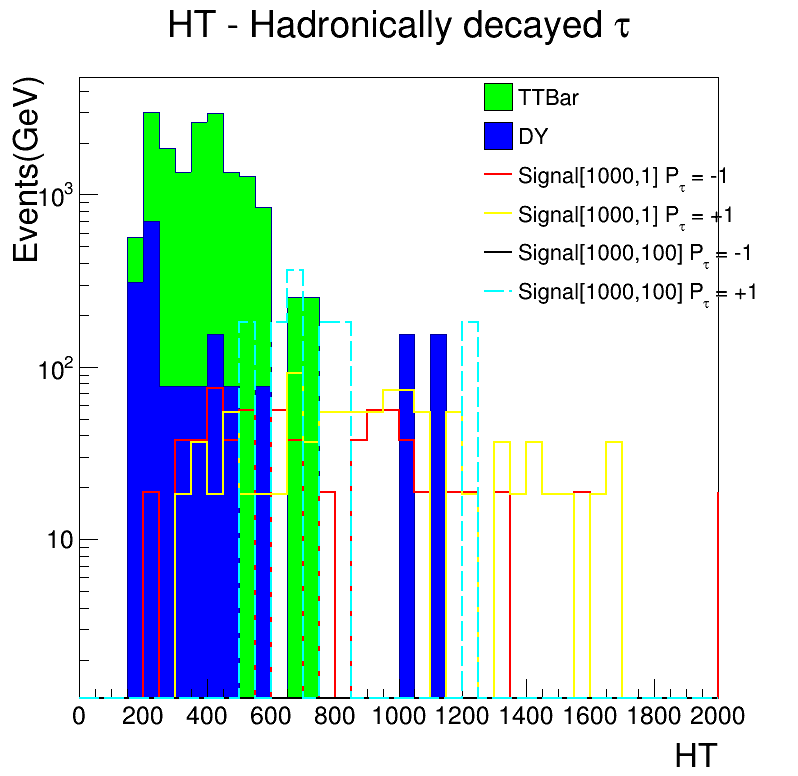
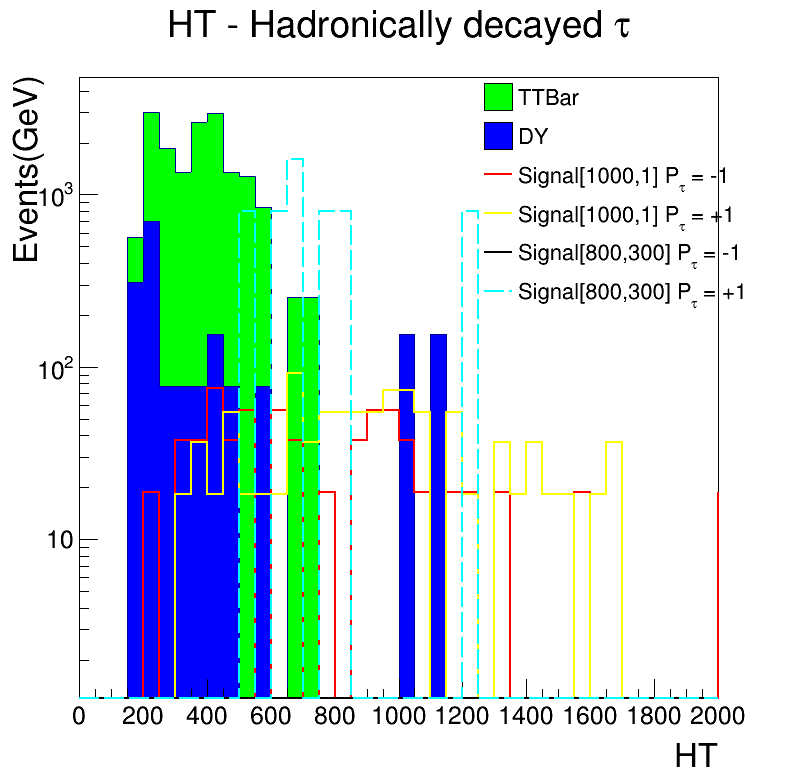
first commit

diff --git a/Script_MT2.C b/Script_MT2.C
@@ -51,7 +51,9 @@
   float DYXsec = 246.5; //pb
   float sXsec_300 =105.081; //pb
   float sXsec_500 = 6.68102; //pb
+  float sXsec_800 = 0.387393; //pb
   float sXsec_1000 = 0.0875693; //pb
+
 
 
   TTEvts = h_n1->GetBinContent(2);
@@ -60,8 +62,8 @@
   sEvts_1000_1_L = h_n7->GetBinContent(2);
   sEvts_1000_1_R = h_n8->GetBinContent(2);
   
-  sEvts_1000_100_L = h_n9->GetBinContent(2);
-  sEvts_1000_100_R = h_n10->GetBinContent(2);
+  sEvts_800_300_L = h_n9->GetBinContent(2);
+  sEvts_800_300_R = h_n10->GetBinContent(2);
 
   h1->SetFillColor(kGreen);
   h2->SetFillColor(kBlue);
@@ -106,8 +108,8 @@
     h7->Scale(luminosity * sXsec_1000 / sEvts_1000_1_L );
     h8->Scale(luminosity * sXsec_1000 / sEvts_1000_1_R );
 
-    h9->Scale(luminosity * sXsec_1000 / sEvts_1000_100_L );
-    h10->Scale(luminosity * sXsec_1000 / sEvts_1000_100_R );
+    h9->Scale(luminosity * sXsec_800 / sEvts_800_300_L );
+    h10->Scale(luminosity * sXsec_800 / sEvts_800_300_R );
 
   std::cout<<"h1 Integral after : "<< h1->Integral()<<std::endl;
   std::cout<<"h2 Integral after : "<< h2->Integral()<<std::endl;
@@ -116,12 +118,21 @@
   std::cout<<"h9 Integral after : "<< h9->Integral()<<std::endl;
   std::cout<<"h10 Integral after : "<< h10->Integral()<<std::endl;
 
-  float S = h7->Integral()+h8->Integral()+h9->Integral()+h10->Integral();
+  float S1 = h7->Integral();
+  float S2 = h8->Integral();
+  float S3 = h9->Integral();
+  float S4 = h10->Integral();
   float B = h1->Integral()+h2->Integral();
 
-  float eff = S/sqrt(S+B);
+  float sig_1000_1_L = S1/sqrt(S1+B);
+  float sig_1000_1_R = S2/sqrt(S2+B);
+  float sig_800_300_L = S3/sqrt(S3+B);
+  float sig_800_300_R = S4/sqrt(S4+B);
   std::cout<<"-------------------------------------------------------------------"<<std::endl;
-  std::cout<<"S/sqrt(S+B) is  : "<< eff <<std::endl;
+  std::cout<<"S/sqrt(S+B) for left handed signal, mass point [STOP,LSP]: [1000,1]  : "<< sig_1000_1_L <<std::endl;
+  std::cout<<"S/sqrt(S+B) for right handed signal, mass point [STOP,LSP]: [1000,1]  : "<< sig_1000_1_R <<std::endl;
+  std::cout<<"S/sqrt(S+B) for left handed signal, mass point [STOP,LSP]: [800,300]  : "<< sig_800_300_L <<std::endl;
+  std::cout<<"S/sqrt(S+B) for right handed signal, mass point [STOP,LSP]: [800,300]  : "<< sig_800_300_R <<std::endl;
 
     /* std::cout<<"h1 afterscaling : "<< h1->GetEntries()<<std::endl;
   std::cout<<"h2 afterscaling : "<< h2->GetEntries()<<std::endl;
@@ -168,7 +179,7 @@
    std::cout<<"coming before 1A : "<<std::endl;    
   //  stackHisto->SetStats(0);
   //stackHisto->SetTitle("");
-  stackHisto->GetXaxis()->SetRangeUser(0, 2000);
+  stackHisto->GetXaxis()->SetRangeUser(0, 800);
   stackHisto->GetXaxis()->SetTitle("MT");
  std::cout<<"coming before 2A : "<<std::endl;    
   stackHisto->GetYaxis()->SetTitle("Events(GeV)");
@@ -209,8 +220,8 @@
   leg->AddEntry(h6,"Signal[500,350] P_{#tau} = +1","l");
   */leg->AddEntry(h7,"Signal[1000,1] P_{#tau} = -1","l");
   leg->AddEntry(h8,"Signal[1000,1] P_{#tau} = +1","l");
-   leg->AddEntry(h9,"Signal[1000,100] P_{#tau} = -1","l");
-  leg->AddEntry(h10,"Signal[1000,100] P_{#tau} = +1","l");
+   leg->AddEntry(h9,"Signal[800,300] P_{#tau} = -1","l");
+  leg->AddEntry(h10,"Signal[800,300] P_{#tau} = +1","l");
   
   
   leg->SetFillColor(kWhite);
